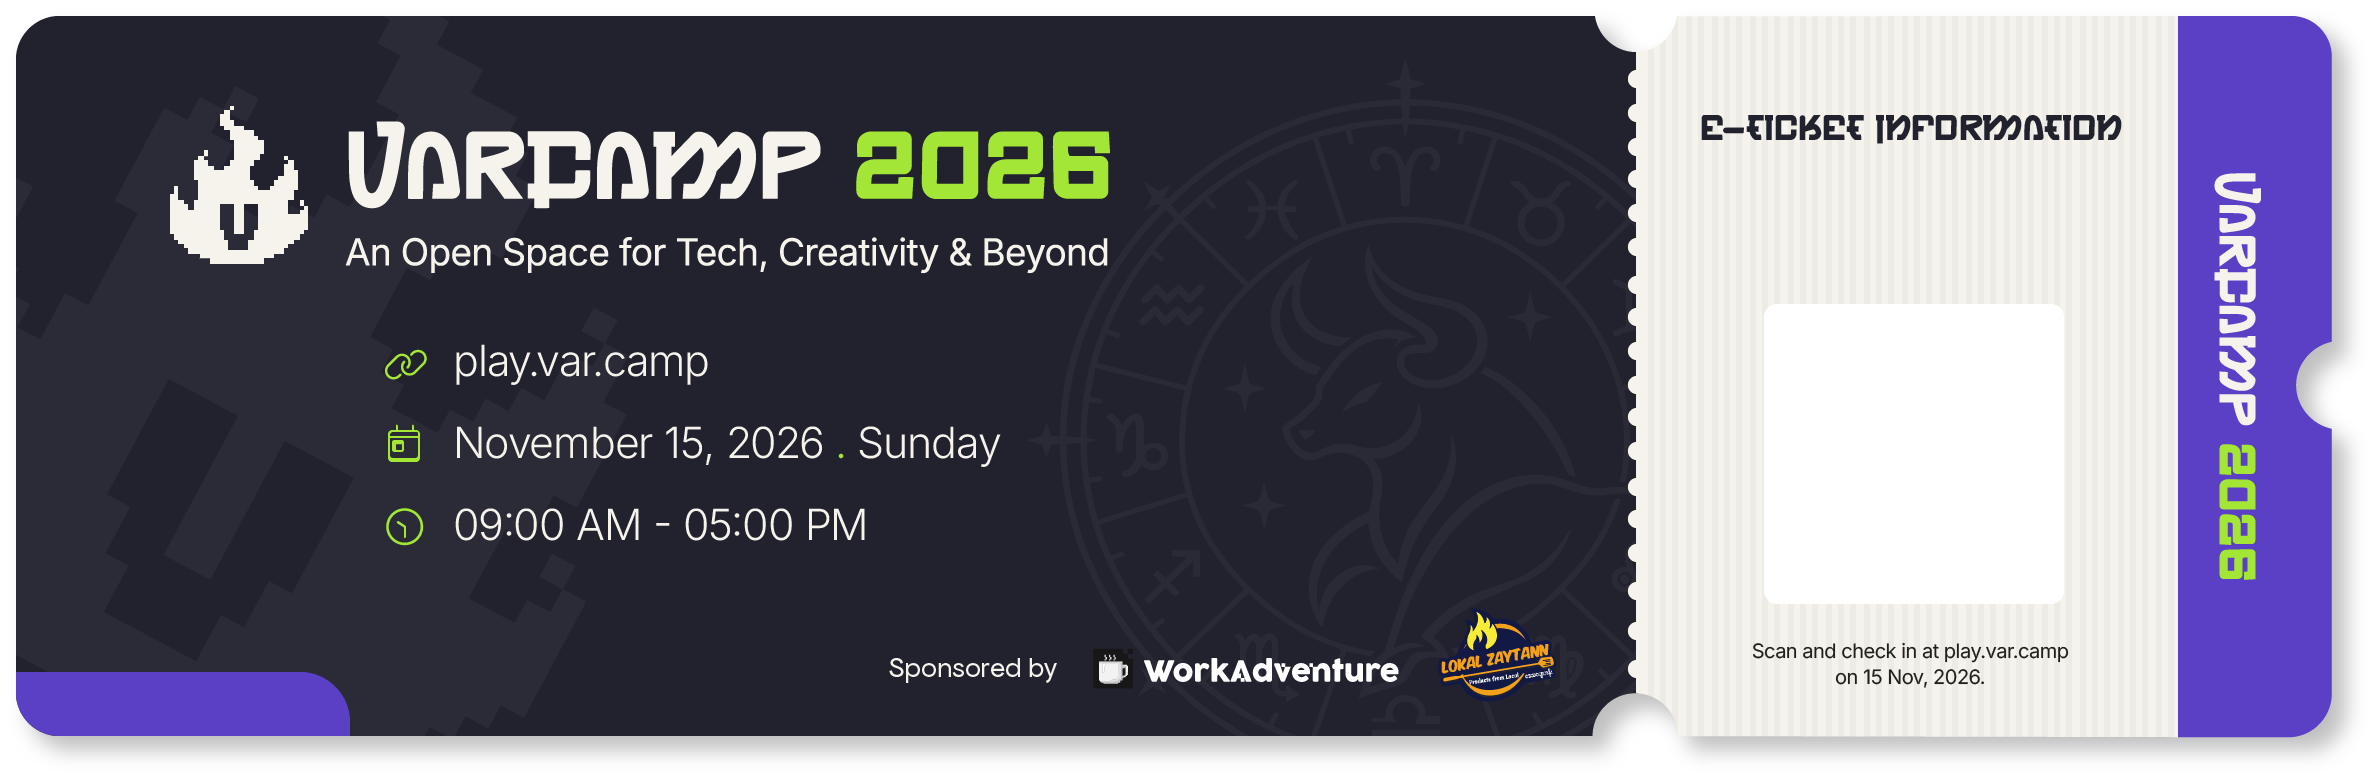
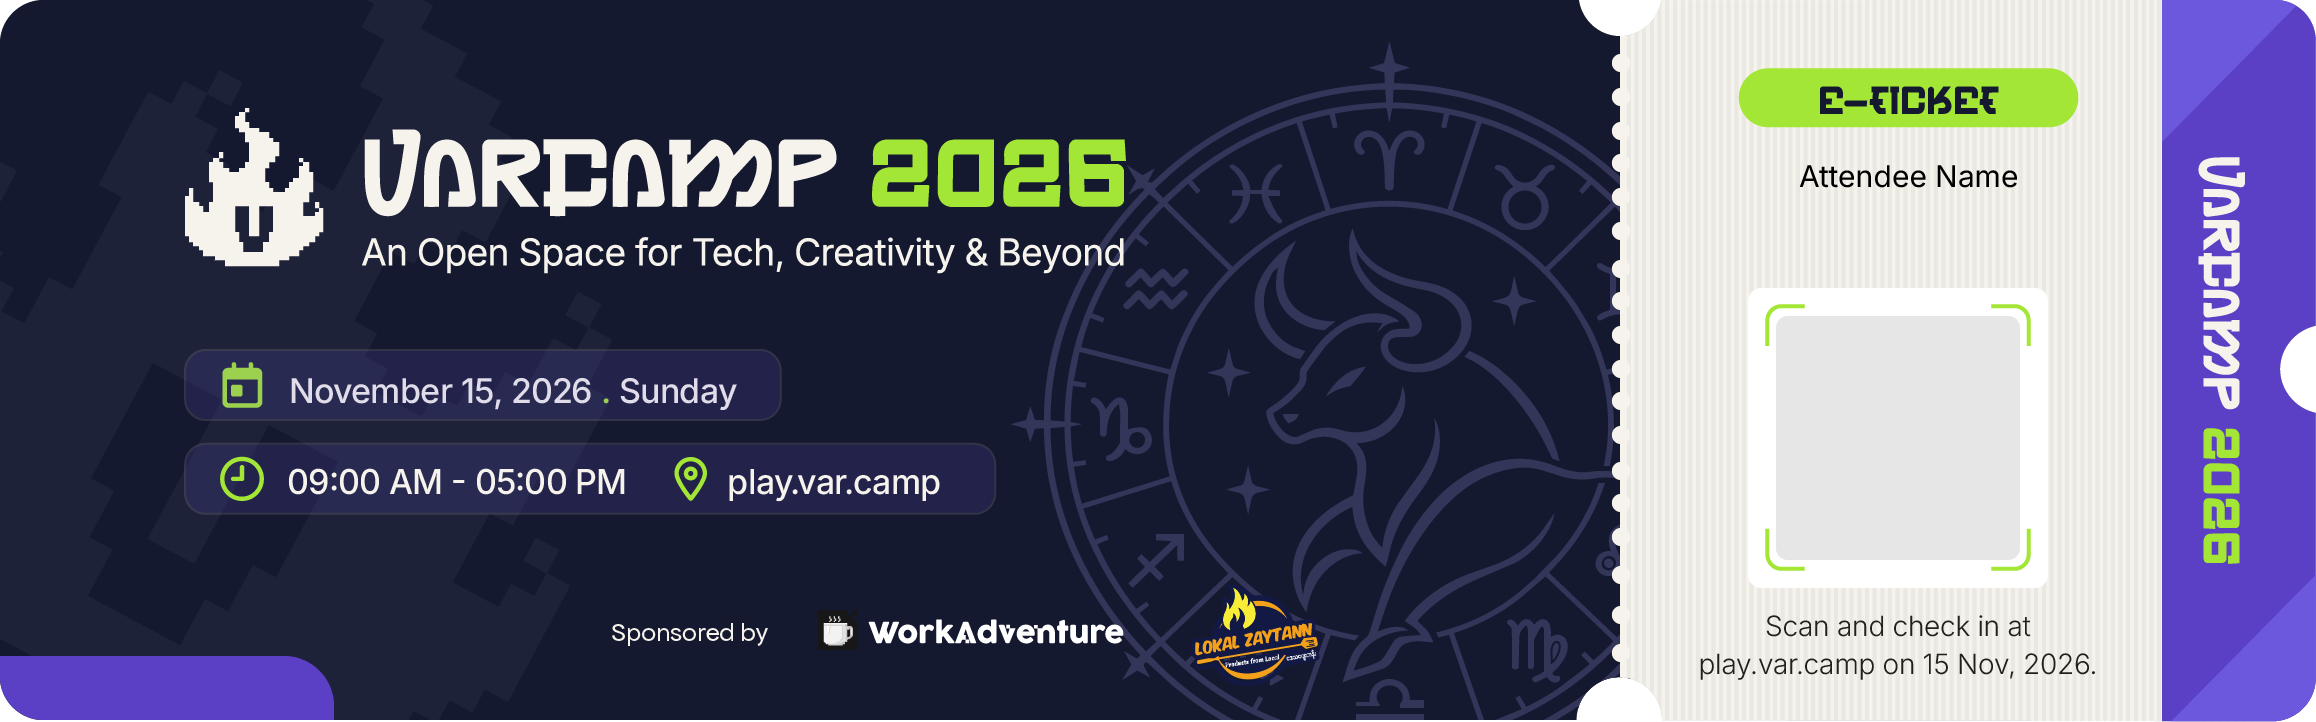
Use new e-ticket design and drop the phone-only QR code
- New 2316x722 ticket template: name under the printed label, QR code in
  the gray square, ticket ID in the bottom-left tab.
- Ticket page shows only the ticket; the separate mobile QR code is gone.

diff --git a/apps/register/app/2026/attendee/_components/ticket-canvas.ts b/apps/register/app/2026/attendee/_components/ticket-canvas.ts
@@ -8,33 +8,35 @@ import ticketTemplate from "./e-ticket-template.png"
 
 const ticketTemplateUrl = ticketTemplate.src
 
-// Positions below are measured on the 2376 × 782 px template. Another export
+// Positions below are measured on the 2316 × 722 px template. Another export
 // of the same design works too; everything is scaled to its width.
-const templateWidth = 2376
-export const ticketAspectRatio = "2376 / 782"
+const templateWidth = 2316
+export const ticketAspectRatio = "2316 / 722"
 
 const colors = {
-  label: "#21222e",
   name: "#000000",
   ticketId: "#ddd5ec",
   qr: "#000000",
+  qrBackground: "#ffffff",
 }
 
 const layout = {
-  // Centered in the light stub, between its heading and the QR code.
+  // Centered under the template's "Attendee Name" label, above the QR code.
   attendee: {
-    centerX: 1911,
-    labelY: 226,
-    labelSize: 24,
-    nameY: 262,
-    nameSize: 26,
-    lineHeight: 30,
-    maxWidth: 410,
+    centerX: 1908,
+    nameY: 234,
+    nameSize: 30,
+    lineHeight: 32,
+    // How far a two-line name moves up, keeping clear of both the label and
+    // the QR code.
+    twoLineShift: 10,
+    maxWidth: 420,
   },
   // In the purple tab at the bottom left.
-  ticketId: { x: 67, y: 719, size: 28 },
-  // The white square in the stub.
-  qr: { x: 1764, y: 304, size: 300, padding: 18 },
+  ticketId: { x: 56, y: 699, size: 28 },
+  // The gray placeholder inside the green corner marks; it's painted white
+  // first so the code has full contrast.
+  qr: { x: 1776, y: 316, size: 244, padding: 10 },
 }
 
 export function getQrPayload(ticket: AttendeeTicket) {
@@ -181,6 +183,8 @@ export async function drawTicket(
 
   const { qr } = layout
 
+  context.fillStyle = colors.qrBackground
+  context.fillRect(qr.x * scale, qr.y * scale, qr.size * scale, qr.size * scale)
   drawQrCode(
     context,
     getQrPayload(ticket),
@@ -197,8 +201,8 @@ export async function drawTicket(
   context.font = `700 ${attendee.nameSize}px ${fontFamily}`
 
   const nameLines = wrapText(context, ticket.name, attendee.maxWidth, 2)
-  // A two-line name moves the block up so it stays clear of the QR code.
-  const blockOffset = ((nameLines.length - 1) * attendee.lineHeight) / 2
+
+  const blockOffset = (nameLines.length - 1) * attendee.twoLineShift
 
   context.textAlign = "center"
   context.fillStyle = colors.name
@@ -209,44 +213,9 @@ export async function drawTicket(
       attendee.nameY - blockOffset + index * attendee.lineHeight
     )
   })
-  context.fillStyle = colors.label
-  context.font = `400 ${attendee.labelSize}px ${fontFamily}`
-  context.fillText(
-    "Attendee Name",
-    attendee.centerX,
-    attendee.labelY - blockOffset
-  )
 
   context.textAlign = "left"
   context.fillStyle = colors.ticketId
   context.font = `400 ${ticketId.size}px ${fontFamily}`
   context.fillText(ticket.ticketId, ticketId.x, ticketId.y)
-}
-
-// A large QR code on its own, for scanning straight from a phone screen.
-export function drawCheckInQrCode(
-  canvas: HTMLCanvasElement,
-  ticket: AttendeeTicket,
-  displaySize: number
-) {
-  const context = canvas.getContext("2d")
-
-  if (!context) {
-    throw new Error("Canvas is not supported.")
-  }
-
-  const size = Math.ceil(displaySize * window.devicePixelRatio)
-  const quietZone = Math.round(size * 0.06)
-
-  canvas.width = size
-  canvas.height = size
-  context.fillStyle = "#ffffff"
-  context.fillRect(0, 0, size, size)
-  drawQrCode(
-    context,
-    getQrPayload(ticket),
-    quietZone,
-    quietZone,
-    size - quietZone * 2
-  )
 }

diff --git a/apps/register/app/2026/attendee/_components/attendee-ticket.tsx b/apps/register/app/2026/attendee/_components/attendee-ticket.tsx
@@ -26,14 +26,7 @@ import {
   ticketIdPattern,
   ticketStorageKey,
 } from "./attendee-data"
-import {
-  drawCheckInQrCode,
-  drawTicket,
-  ticketAspectRatio,
-} from "./ticket-canvas"
-
-// In CSS pixels; matches size-56 below.
-const checkInQrSize = 224
+import { drawTicket, ticketAspectRatio } from "./ticket-canvas"
 
 // The server can't see session storage, so it renders a placeholder first.
 const pendingSnapshot = "pending"
@@ -76,7 +69,6 @@ function parseTicket(storedTicket: string | null): AttendeeTicket | null {
 export function AttendeeTicketView() {
   const router = useRouter()
   const canvasRef = useRef<HTMLCanvasElement>(null)
-  const qrCanvasRef = useRef<HTMLCanvasElement>(null)
   const [drawStatus, setDrawStatus] = useState<"drawing" | "ready" | "error">(
     "drawing"
   )
@@ -105,14 +97,6 @@ export function AttendeeTicketView() {
     }
 
     let isCurrent = true
-
-    if (qrCanvasRef.current) {
-      try {
-        drawCheckInQrCode(qrCanvasRef.current, ticket, checkInQrSize)
-      } catch (error) {
-        console.error("Unable to draw the check-in QR code:", error)
-      }
-    }
 
     drawTicket(canvas, ticket)
       .then(() => {
@@ -233,22 +217,6 @@ export function AttendeeTicketView() {
             </Button>
           </div>
         </div>
-
-        {/* The QR code on the ticket is too small to scan from a phone
-            screen, so phones also get a large copy. */}
-        {ticket && (
-          <figure className="mt-6 flex flex-col items-center gap-2 rounded-2xl bg-white p-4 sm:hidden">
-            <canvas
-              ref={qrCanvasRef}
-              role="img"
-              aria-label="Check-in QR code"
-              className="size-56"
-            />
-            <figcaption className="text-sm font-medium text-neutral-700">
-              Show this QR code at check-in
-            </figcaption>
-          </figure>
-        )}
 
         {ticket && (
           <dl className="mt-6 grid gap-4 text-sm sm:grid-cols-3">
